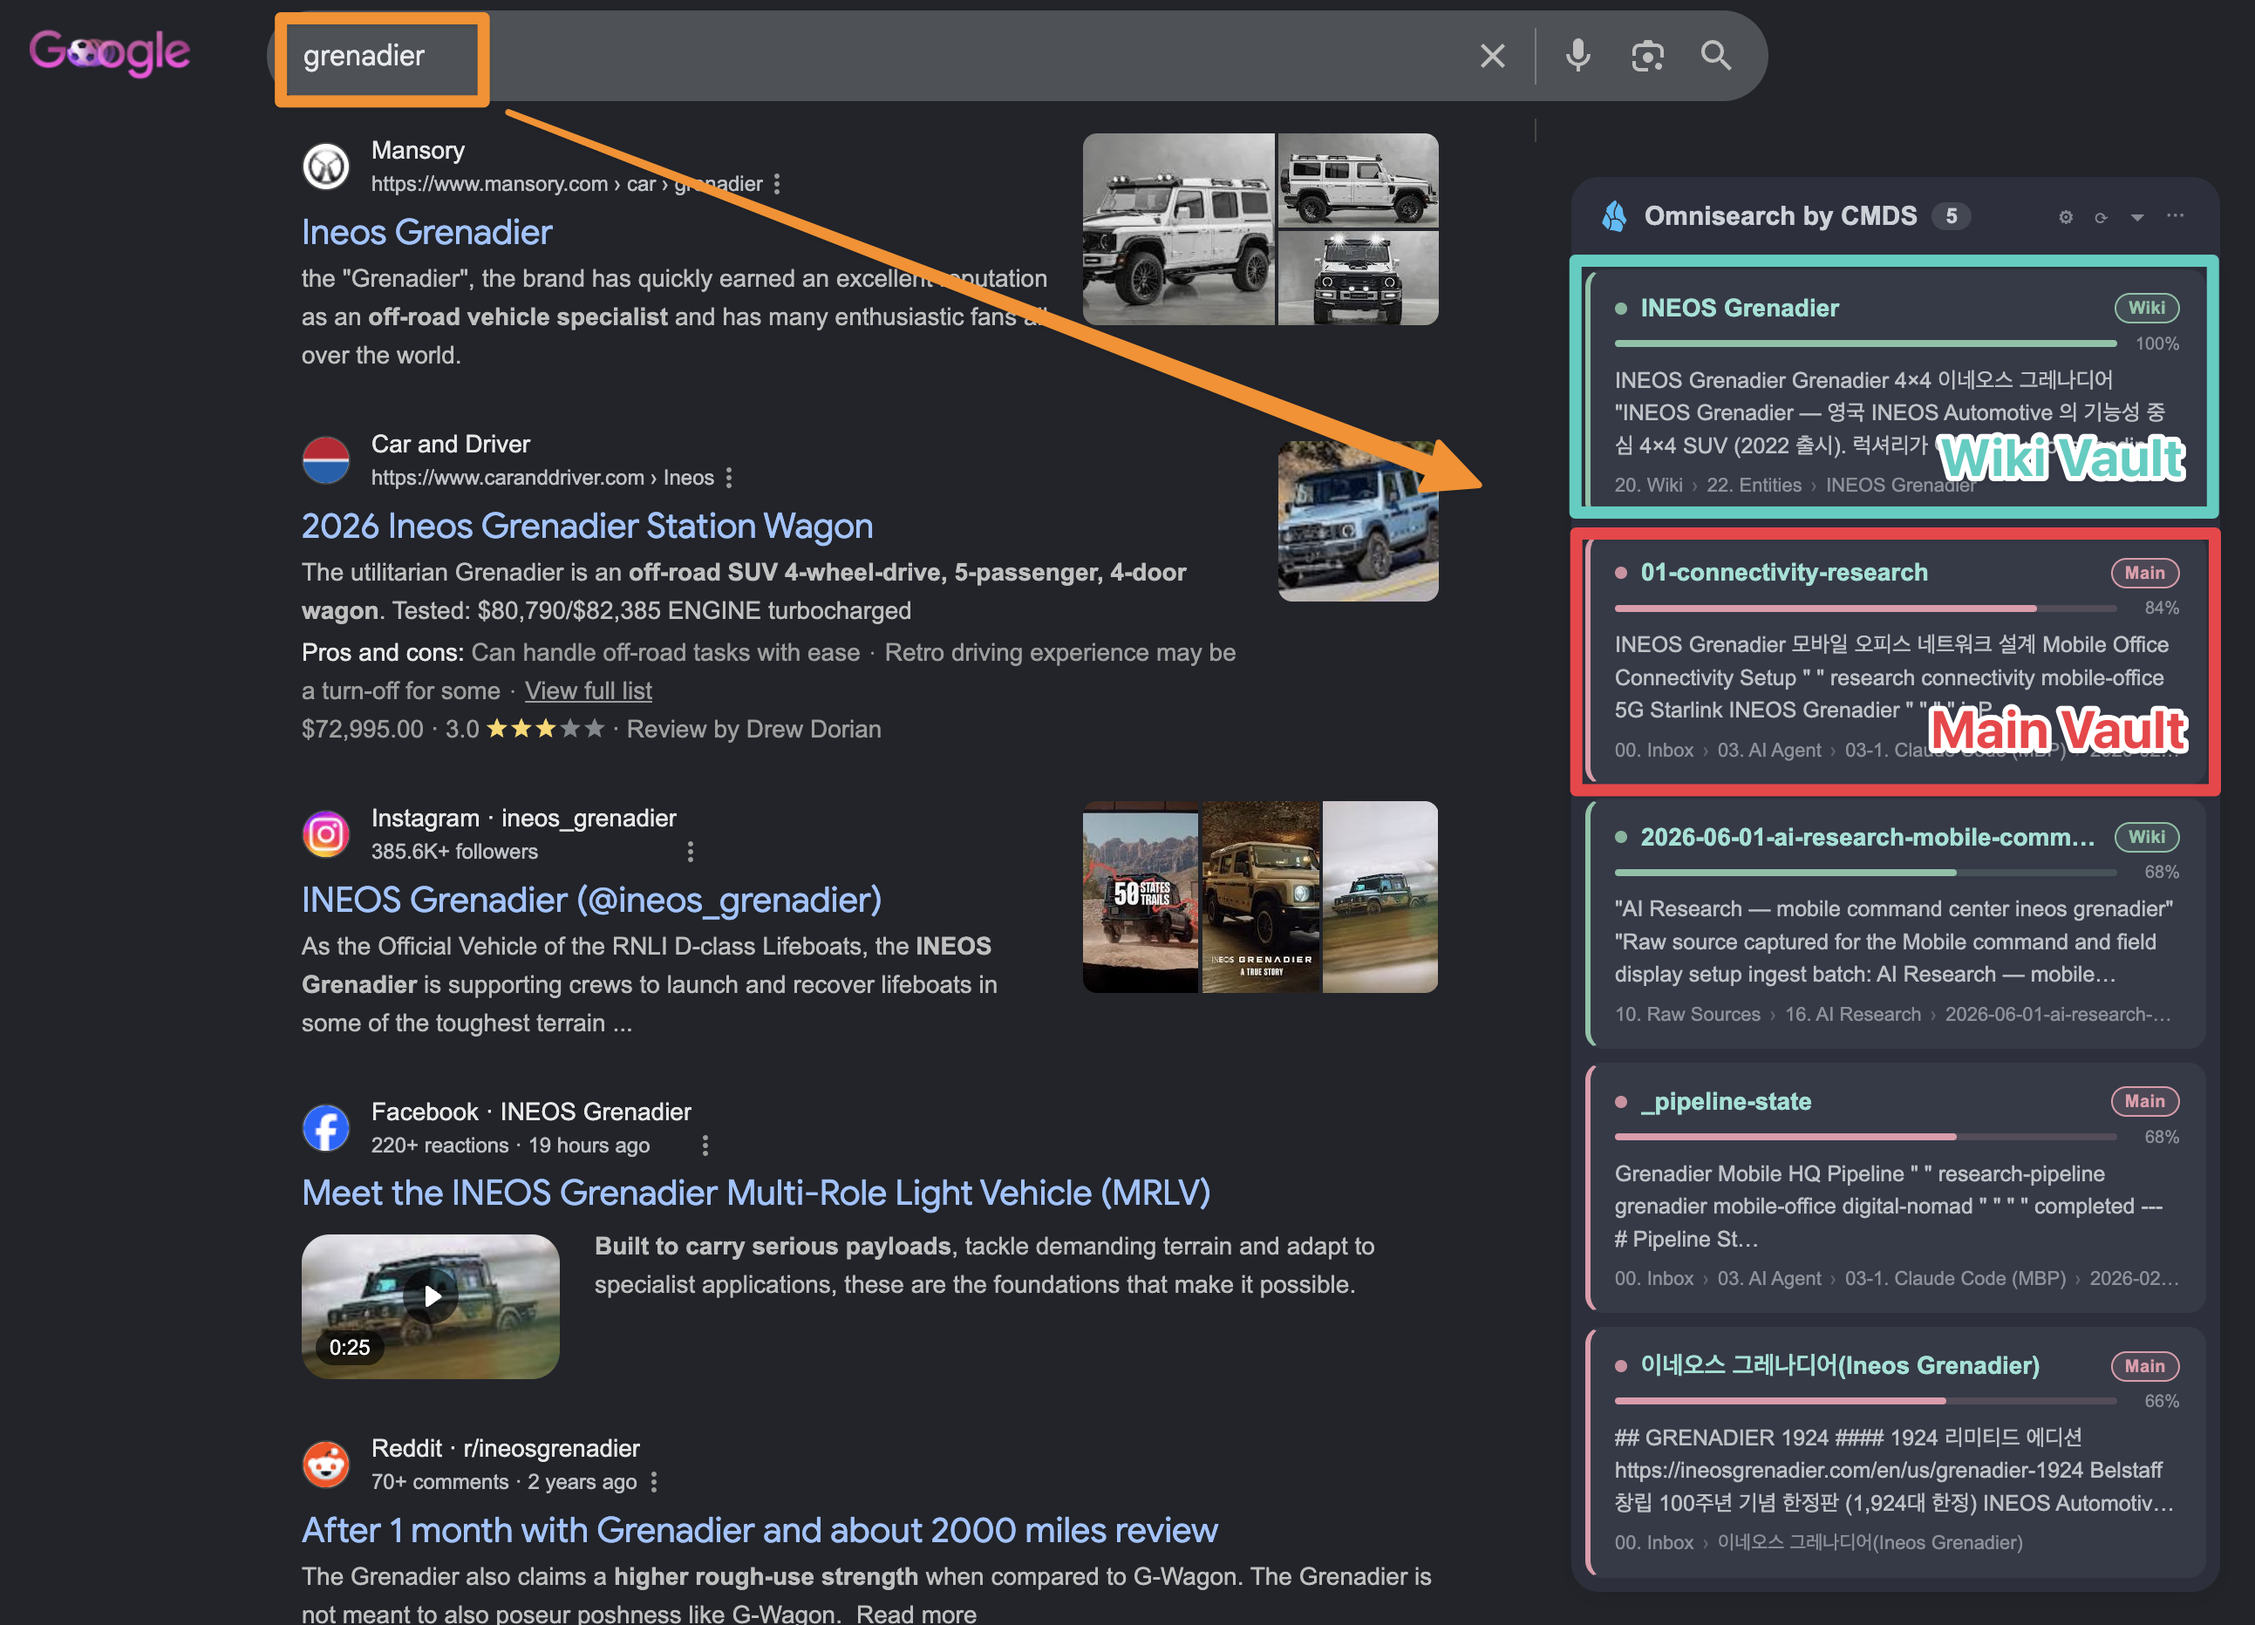
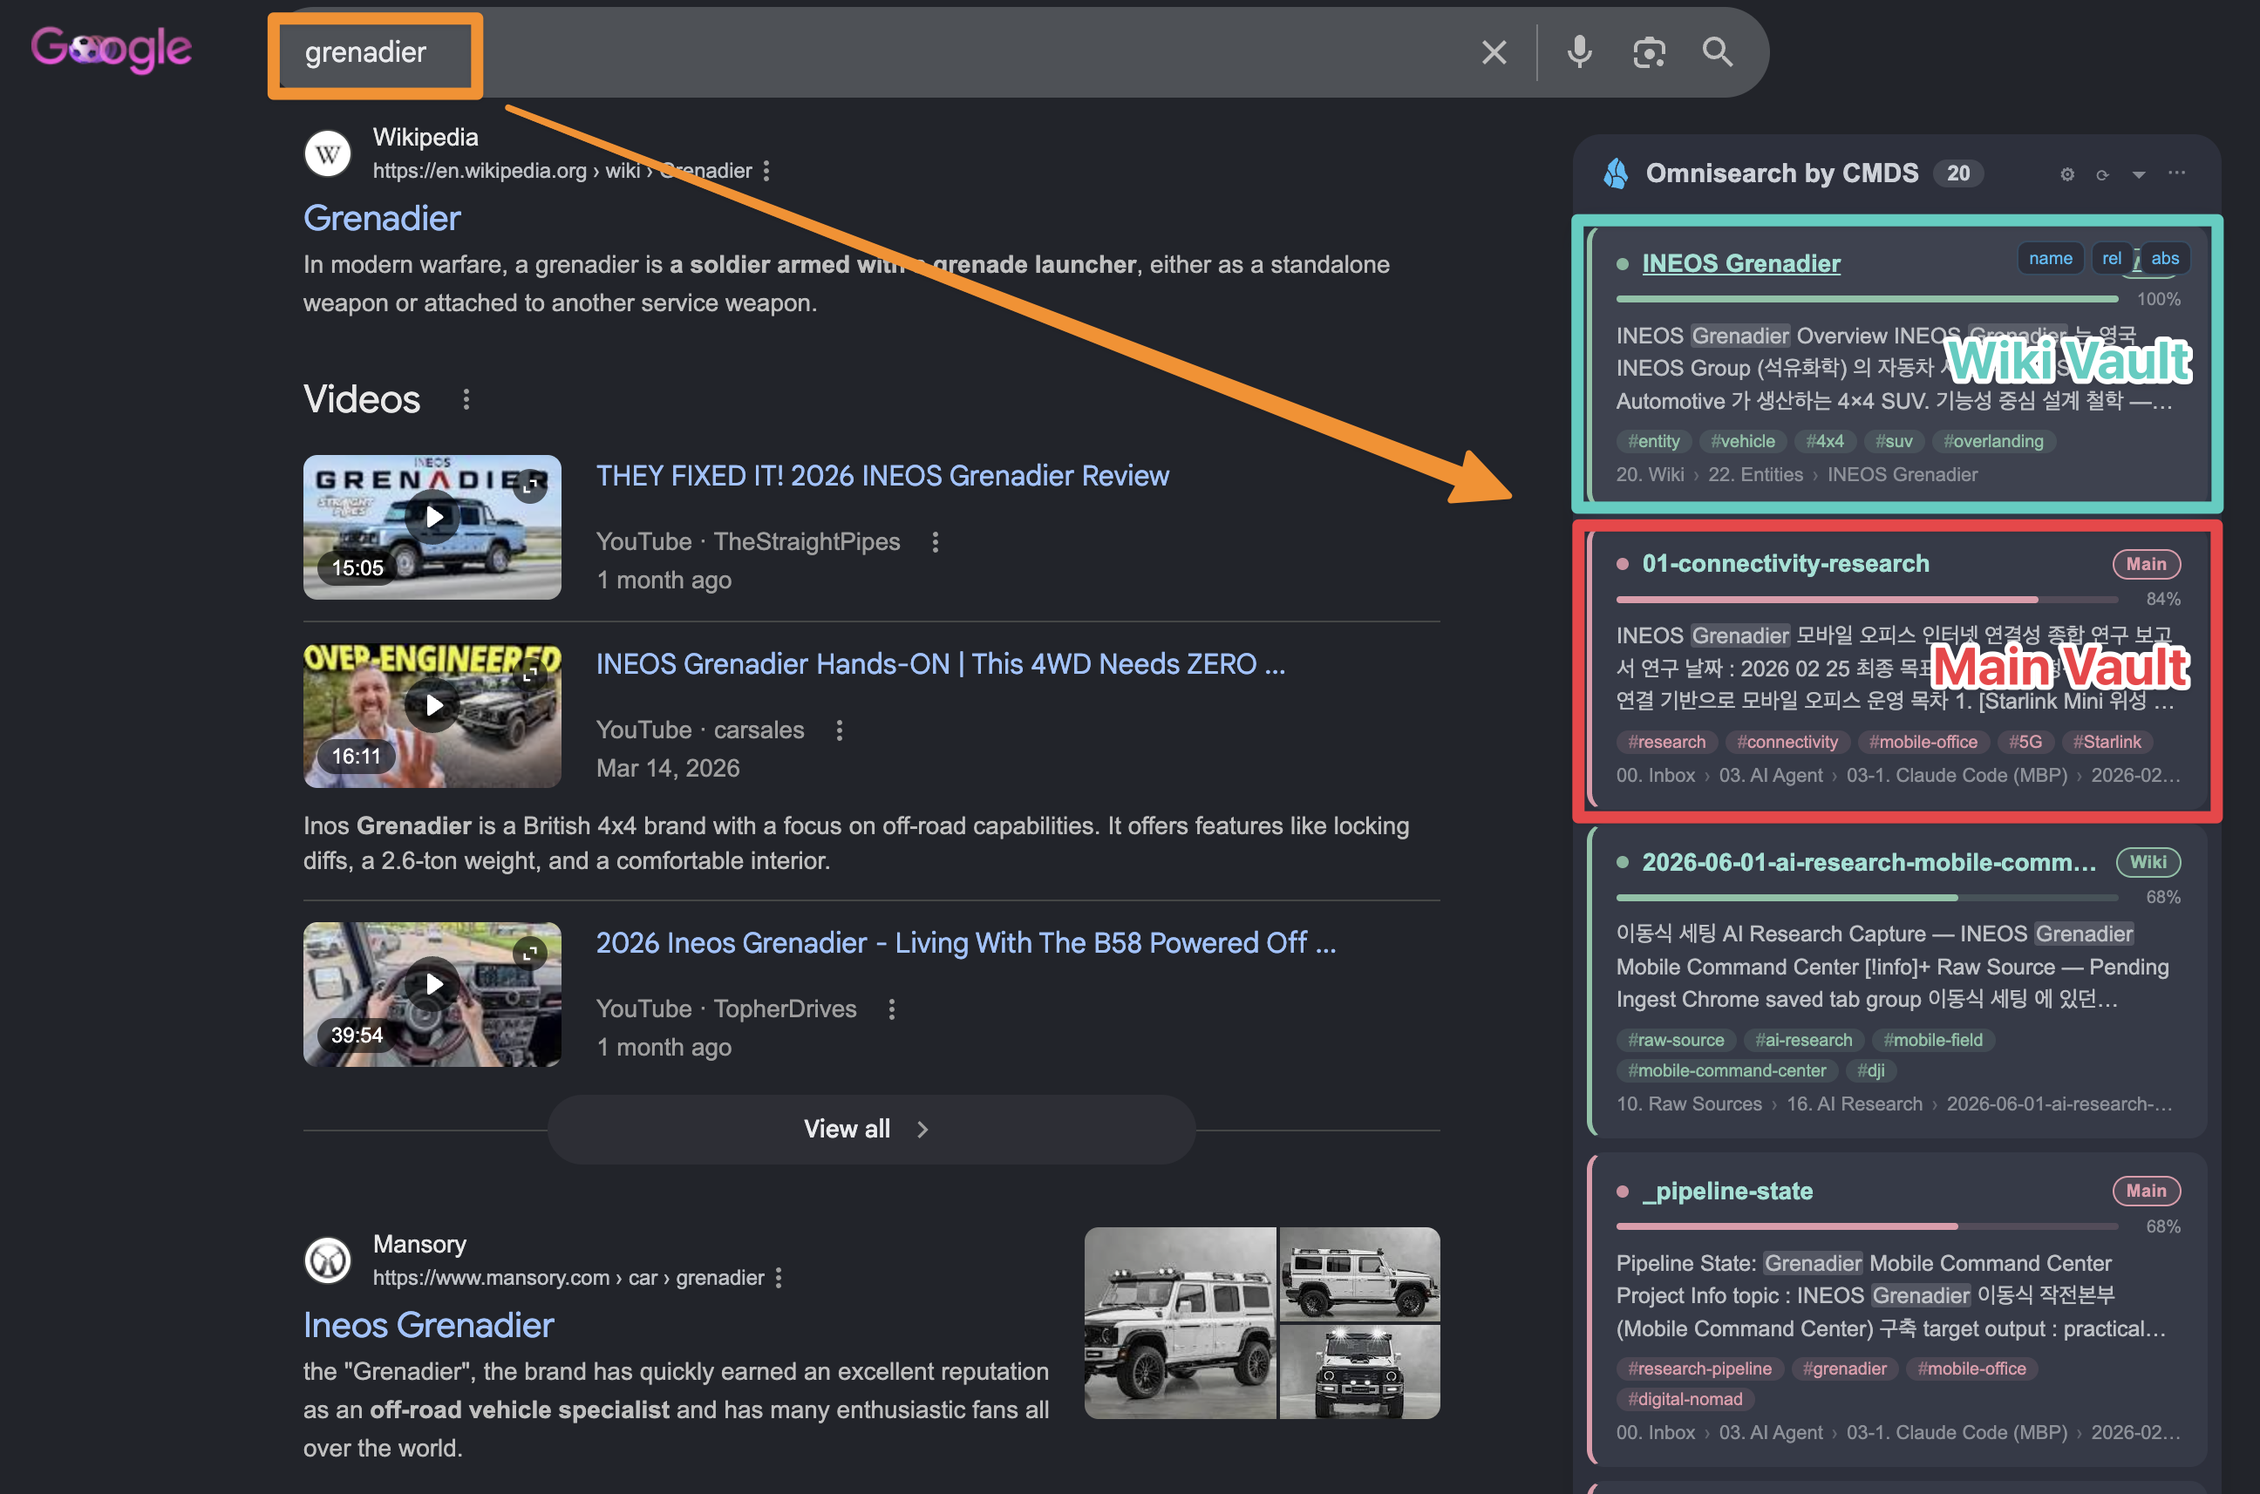
release: v0.13.3 — frontmatter-first tags, multi-source tag resolution; update demo screenshot + changelog

Changed region(s): [[0.0309, 0.0, 0.9899, 1.0], [0.6806, 0.0618, 0.7115, 0.0928]]

diff --git a/obsidian-omnisearch-google-cmds.user.js b/obsidian-omnisearch-google-cmds.user.js
@@ -6,7 +6,7 @@
 // @updateURL    https://raw.githubusercontent.com/johnfkoo951/obsidian-omnisearch-google-cmds/main/obsidian-omnisearch-google-cmds.user.js
 // @homepageURL  https://github.com/johnfkoo951/obsidian-omnisearch-google-cmds
 // @supportURL   https://github.com/johnfkoo951/obsidian-omnisearch-google-cmds/issues
-// @version      0.13.1-custom
+// @version      0.13.3-custom
 // @description  Injects Obsidian Omnisearch results into Google — multi-vault via split per-vault settings (port/name/deeplink/color/root, no hardcoded paths), Advanced-URI option for reliable cross-vault open, per-vault card tint, relevance bars, tag/matched-term chips, copy name/rel/abs path, keyboard nav, themes.
 // @author       구요한 (CMDSPACE)
 // @contributor  Simon Cambier (original "Obsidian Omnisearch in Google" — https://github.com/scambier/userscripts)
@@ -190,7 +190,7 @@
             if (seen.has(k)) return;
             seen.add(k); out.push(t);
         };
-        (raw.match(/#[^\s#<>&,;\[\]"'*`]{2,30}/g) || []).forEach(add);            // inline #hashtags
+        (raw.match(/#[^\s#<>&,;\[\]"'*`…]{2,30}/g) || []).forEach(add);           // inline #hashtags
         (raw.match(/\[([^\[\]]*,[^\[\]]*)\]/g) || []).forEach((seg) =>            // [a, b, c] arrays
             seg.replace(/^\[|\]$/g, "").split(",").forEach(add));
         const tm = raw.match(/\btags\s*:\s*([^\n]{0,120})/i);                     // YAML "tags: a b c" run
@@ -255,6 +255,32 @@
         });
     }
 
+    // Pull tags from a Local REST note JSON. Order = curated first:
+    //   1) frontmatter.tags/tag (the vault's real, curated tags)
+    //   2) top-level `tags` (olrapi exposes INLINE #tags here, not frontmatter — noisier)
+    //   3) inline #tags extracted from the body (last resort)
+    function notesTags(note) {
+        const out = [];
+        const push = (v) => {
+            if (Array.isArray(v)) v.forEach(push);
+            else if (typeof v === "string") v.split(/[,\s]+/).forEach((s) => out.push(s));
+        };
+        const fm = note.frontmatter || note.properties || {};
+        push(fm.tags); push(fm.tag);                                  // 1) frontmatter (preferred)
+        if (!out.length && Array.isArray(note.tags)) push(note.tags); // 2) inline (olrapi top-level)
+        if (!out.length && note.content) extractTags(note.content).forEach((t) => out.push(t)); // 3) body
+        const seen = new Set(), res = [];
+        for (let t of out) {
+            t = String(t).replace(/^#+/, "").replace(/[…\s.,;:]+$/u, "").trim(); // drop trailing ellipsis/punct
+            if (!t || /^\d+$/.test(t)) continue;
+            const k = t.toLowerCase();
+            if (seen.has(k)) continue;
+            seen.add(k); res.push(t);
+        }
+        return res;
+    }
+
+    let _restShape = false; // log the note shape once, to help diagnose variants
     // After cards render, pull the real note (body + tags) for each visible result and patch it in.
     function enrichResults() {
         if (!S.useLocalRest) return;
@@ -267,9 +293,10 @@
             const card = cards.eq(i);
             fetchNote({ port: item._restPort, key: item._restKey }, item.path).then((note) => {
                 if (!note) return;
+                if (!_restShape) { _restShape = true; console.log("[Omnisearch CMDS] Local REST note keys:", Object.keys(note), "| tags:", note.tags, "| frontmatter.tags:", (note.frontmatter || {}).tags); }
                 if (note.content) card.find(".om-excerpt").html(bodyPreview(note.content, query));
-                if (S.showTags && Array.isArray(note.tags)) {
-                    const tags = note.tags.map((t) => String(t).replace(/^#/, "")).filter(Boolean).slice(0, S.maxTags);
+                if (S.showTags) {
+                    const tags = notesTags(note).slice(0, S.maxTags);
                     let box = card.find(".om-tags");
                     const html = tags.map((t) => `<span class="om-tag">${escapeHtml(t)}</span>`).join("");
                     if (tags.length) {
@@ -1072,7 +1099,7 @@
     }
 
     // ---------- boot ----------
-    console.log("Loading Omnisearch injector CMDS v0.13.1");
+    console.log("Loading Omnisearch injector CMDS v0.13.3");
 
     onInit(gmc).then(async () => {
         loadSettings();
@@ -1090,7 +1117,7 @@
         bindKeyboard();
         runSearch();
 
-        console.log("Loaded Omnisearch injector CMDS v0.13.1");
+        console.log("Loaded Omnisearch injector CMDS v0.13.3");
 
         // keep widget pinned to chosen edge if Google injects more cards
         waitForKeyElements(sidebarSelector, () => {

diff --git a/README.md b/README.md
@@ -63,6 +63,8 @@ Open Tampermonkey → this script → **Settings**. Each vault is a slot (Port /
 
 Versions track the `@version` in the userscript header (newest first).
 
+- **v0.13.3** — Tag priority fix: prefer **frontmatter tags** over Local REST's top-level `tags` (which exposes inline `#tags` only); trim trailing ellipsis/punctuation.
+- **v0.13.2** — Pull tags from multiple sources (top-level `tags` → `frontmatter.tags` → inline) for Local REST plugin variants.
 - **v0.13.1** — Default theme set to **Ocean**; fixed "Note title color" not applying in Accent scope.
 - **v0.13.0** — Harmonious default vault colors (Main `#E39AAB` dusty rose / Wiki `#86C2A6` sage); header text/count/icons toned down to neutral white-gray (logo keeps the accent color).
 - **v0.12.1** — **`vaultColorScope`** (Accent / Full): Accent keeps titles readable and applies the vault color only to accents; Full colors titles + highlights too.
